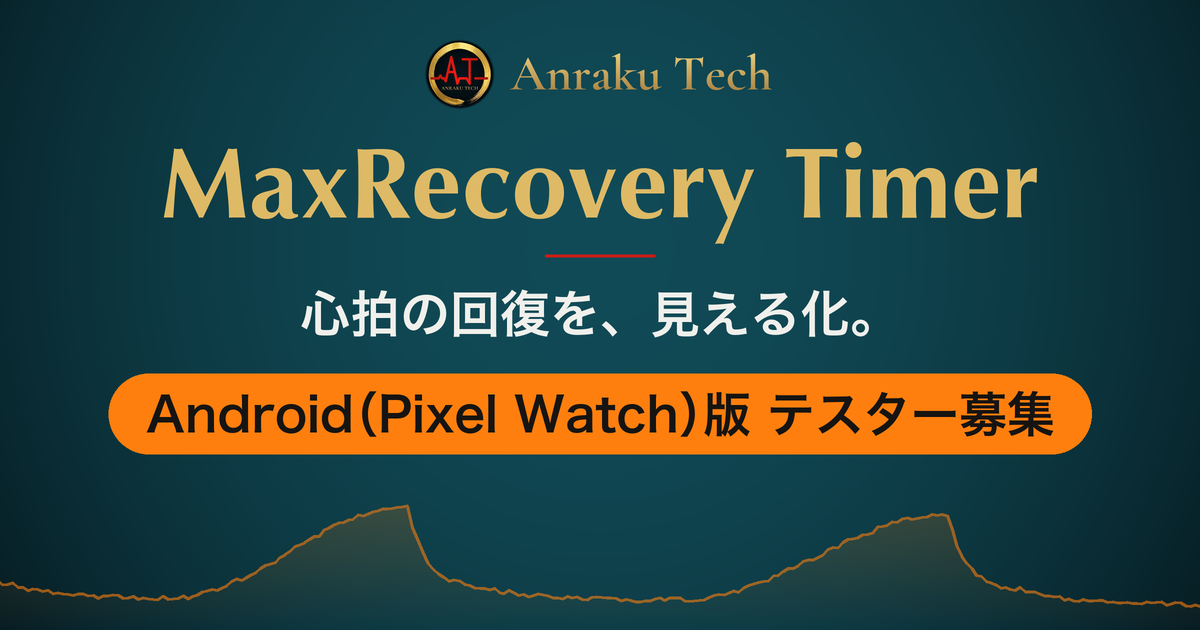
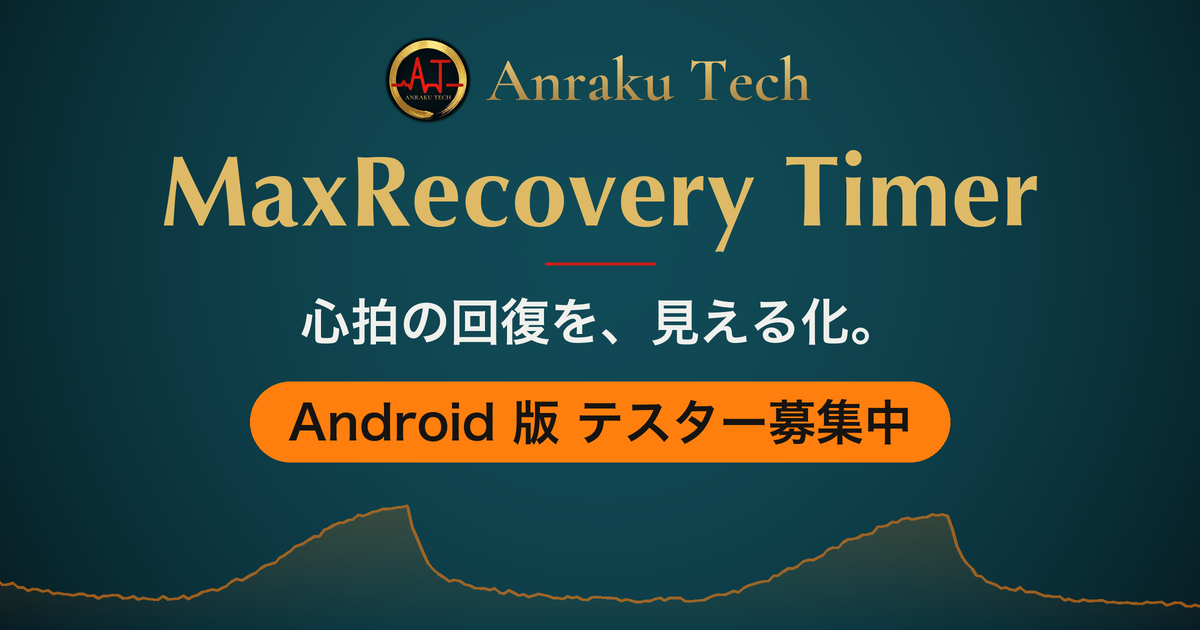
fix(pixel): tester card band reads "Android 版 テスター募集中"
The orange band on assets/img/og-beta.png said "Android（Pixel Watch）版
テスター募集", which reads as Pixel Watch only and watch required. The
page only requires an Android phone (Android 11+); a Wear OS watch such
as Pixel Watch is optional. The band now uses the same wording as the
X header for the tester drive, and image.alt in pixel/beta.md follows.

The small Anraku Tech mark on top is also larger (ring 80px, name
62px, was 64px/50px) so the name stays legible at phone card width.

diff --git a/pixel/beta.md b/pixel/beta.md
@@ -3,7 +3,7 @@ title: テスター募集 / Join the beta (Pixel Watch & Android)
 description: MaxRecovery Timer の Android 版（Pixel Watch / Wear OS ＋ Android スマホ）の Google Play クローズドテストに参加してくださる方を募集しています。
 image:
   path: /assets/img/og-beta.png
-  alt: MaxRecovery Timer「心拍の回復を、見える化。」Android（Pixel Watch）版 テスター募集（Anraku Tech）
+  alt: MaxRecovery Timer「心拍の回復を、見える化。」Android 版 テスター募集中（Anraku Tech）
 ---
 
 <!--
